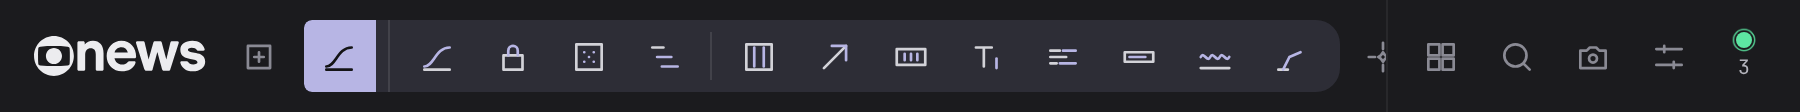
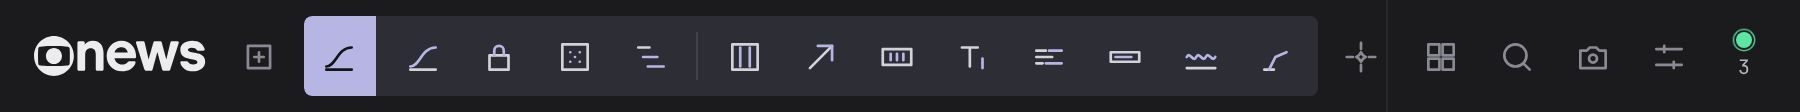
Panel: network offline shown as a red dot on the selection chip (message in its tooltip), no popup while the host loads; horizontal bar: one or two rows of tools, full-height section chip without divider, 4px corners
Claude-Session: https://claude.ai/code/session_01DrYHfURcmfXJEBB7vyaKqW

diff --git a/cep/client/panel/panel.css b/cep/client/panel/panel.css
@@ -6,7 +6,7 @@
 
 /* GNEWS logo (from the script's own shape layer): the globe alone in the narrow bar,
    the full logo when there is room */
-.logo { height: 36px; display: flex; align-items: center; padding: 0 7px; color: var(--tx); border-radius: 4px; }
+.logo { position: relative; height: 36px; display: flex; align-items: center; padding: 0 7px; color: var(--tx); border-radius: 4px; }
 .logo .gl { display: block; height: 22px; width: auto; fill: currentColor; transition: transform .3s var(--spring); }
 .logo .gl-full { display: none; height: 20px; }
 .wide .logo .gl-full, .horiz .logo .gl-full { display: block; }
@@ -58,6 +58,8 @@ footer { flex: none; display: flex; flex-wrap: wrap; gap: 2px; padding: 6px 10px
 .sel.err { background: rgba(255, 107, 107, .16); color: #FFB3B2; }
 .sel .dot { width: 8px; height: 8px; border-radius: 50%; position: relative; background: #55555E; transition: background .3s; }
 .sel .dot.live { background: var(--ok); }
+/* network share offline (message in the tooltip) */
+.sel .dot.off { background: #FF4D4D; }
 .sel .dot.live::after { content: ''; position: absolute; left: -4px; top: -4px; right: -4px; bottom: -4px; border-radius: 50%; border: 1.5px solid var(--ok); animation: ping 1.8s ease-out infinite; }
 .sel svg { width: 16px; height: 16px; fill: none; stroke-width: 2.6; stroke-linecap: round; stroke-linejoin: round; animation: pop .45s cubic-bezier(.3, 1.6, .5, 1); }
 .sel svg path { stroke-dasharray: 24; animation: draw .4s ease backwards; }
@@ -109,10 +111,13 @@ footer { position: relative; }
 .horiz .logo { flex: none; }
 .horiz #sections { flex-direction: row; align-items: center; flex: none; }
 .horiz .sec { flex: none; }
-.horiz .sec.open { display: flex; align-items: center; padding: 0 6px 0 0; border-radius: 4px 12px 12px 4px; animation-name: accInX; }
-/* the open section's own icon: a solid chip in the section color, then a thin divider — the tools follow */
-.horiz .sec.open > .head { flex: none; align-self: stretch; display: flex; align-items: center; padding-right: 6px; margin-right: 4px; border-right: 1px solid var(--line-2); }
-.horiz .sec.open > .head .k { background: var(--sa); color: var(--sa-ink); border-radius: 4px 0 0 4px; }
+.horiz .sec.open { display: flex; align-items: center; padding: 2px 2px 2px 0; border-radius: 4px; animation-name: accInX; }
+/* the open section's own icon: a solid chip in the section color, full height of the block — the tools follow */
+.horiz .sec.open > .head { flex: none; align-self: stretch; display: flex; align-items: center; margin: -2px 4px -2px 0; }
+.horiz .sec.open > .head .k { align-self: stretch; height: auto; background: var(--sa); color: var(--sa-ink); border-radius: 4px 0 0 4px; }
+/* inside the horizontal section: square-ish hovers, groups split by a thin line */
+.horiz .sec.open .t, .horiz .sec.open .sw { border-radius: 4px; }
+.horiz .sec.open .groups { align-self: center; }
 .horiz .sec.open > .head .k:hover { background: var(--sa); filter: brightness(1.08); }
 .horiz .groups { display: flex; align-items: center; }
 .horiz .grid { grid-auto-flow: column; grid-auto-columns: 36px; padding: 0 0 0 2px; }

diff --git a/cep/client/panel/panel.js b/cep/client/panel/panel.js
@@ -40,7 +40,7 @@
 	/* ---------- layout ---------- */
 
 	// short and wide (docked along the top or bottom of the workspace): everything in one row,
-	// the open section unfolds to the right, its tools in a single row
+	// the open section unfolds to the right, its tools in one row (two when the bar is tall enough)
 	function metrics() {
 		var w = window.innerWidth, hgt = window.innerHeight;
 		var horiz = hgt < 260 && w > hgt * 1.4;
@@ -51,10 +51,11 @@
 		app.classList.toggle('list', !horiz && state.labels && w >= 150);
 		app.classList.toggle('reduced', state.reduced);
 		var cols = Math.max(1, Math.floor((w - 20 + 2) / 38));
+		var rows = hgt >= 100 ? 2 : 1;   // horizontal: one or two rows of tools
 		nav.querySelectorAll('.grid').forEach(function (g) {
 			var list = app.classList.contains('list') && !g.classList.contains('swatches');
 			g.style.gridTemplateColumns = horiz ? '' : (list ? '1fr' : 'repeat(' + cols + ', 36px)');
-			g.style.gridTemplateRows = horiz ? '36px' : '';
+			g.style.gridTemplateRows = horiz ? 'repeat(' + rows + ', 36px)' : '';
 		});
 	}
 
@@ -394,9 +395,9 @@
 		selBtn.classList.remove('err');
 		selBtn.textContent = '';
 		var n = st ? st.layers : 0;
-		selBtn.appendChild(h('span.dot' + (st && st.comp && n > 0 ? '.live' : '')));
+		selBtn.appendChild(h('span.dot' + (state.netOff ? '.off' : (st && st.comp && n > 0 ? '.live' : ''))));
 		selBtn.appendChild(h('span', { text: st && st.comp ? String(n) : '–' }));
-		selBtn.title = st && st.comp ? st.comp + ' · ' + n + (n === 1 ? ' layer' : ' layers') : 'nenhuma comp ativa';
+		selBtn.title = (st && st.comp ? st.comp + ' · ' + n + (n === 1 ? ' layer' : ' layers') : 'nenhuma comp ativa') + (state.netOff ? '\n' + state.netOff : '');
 	}
 
 	function pollStatus() {
@@ -481,6 +482,13 @@
 	var logoBtn = document.getElementById('logo');
 	if (window.PGN_LOGO_SVG) { logoBtn.appendChild(PGN_LOGO_SVG('globo')); logoBtn.appendChild(PGN_LOGO_SVG('full')); }
 
+	// network share offline: the selection chip's dot turns red, the message goes in its tooltip
+	// (no popup, no toast)
+	function netDot(msg) {
+		state.netOff = msg || '';
+		renderSel();
+	}
+
 	function intro() {
 		if (!window.PGN_LOGO_DRAW || state.reduced || (window.matchMedia && matchMedia('(prefers-reduced-motion: reduce)').matches)) return;
 		var W = window.innerWidth, H = window.innerHeight, dpr = window.devicePixelRatio || 1;
@@ -519,7 +527,7 @@
 		if (!r || !r.ok) { if (r && r.error) feedback(r.error, false); return; }
 		if (!r.data) return;
 		// network share offline (home office suggested): warn once, without blocking
-		if (r.data.netOffline) feedback(r.data.netOffline, false);
+		netDot(r.data.netOffline);
 		if (r.data.showLabels != null && UI.store('labels') === undefined) {
 			state.labels = !!r.data.showLabels;
 			metrics();

diff --git a/cep/host/index.jsx b/cep/host/index.jsx
@@ -32,34 +32,35 @@ var vStr = 'v3.0';
 	$.global.PGN_SRC = srcFolder.fsName;
 	$.global.PGN_HOST = hostFolder.fsName;
 
-	// classic globals + every library (json, functions, expressions, icons, shape templates)...
-	// globals.js checks the network while loading and may alert ('drive N: is not available'):
-	// keep the message for the panel instead of a modal popup at every start (macOS never sees //server paths)
+	// no modal popup while the host loads (classic network checks, 'drive N: is not available'…):
+	// a popup would freeze After Effects over the panel's opening animation. The message is kept
+	// for the panel, which shows a small red dot on the logo instead (PGN.net.offline / PGN_BOOT_MSG)
 	var bootAlert = $.global.alert;
 
 	try {
 		$.global.alert = function (m) { $.global.PGN_BOOT_MSG = String(m); };
 	} catch (e) { }
 	try {
+		// classic globals + every library (json, functions, expressions, icons, shape templates)...
 		$.evalFile(srcFolder.fsName + '/globals.js');
+
+		// Windows + macOS: network shares, shell commands and Windows-only classic helpers...
+		$.evalFile(hostFolder.fsName + '/platform.jsx');
+
+		// CEP core + tools...
+		$.evalFile(hostFolder.fsName + '/core.jsx');
+
+		var toolFiles = new Folder(hostFolder.fsName + '/tools').getFiles('*.jsx');
+
+		for (var t = 0; t < toolFiles.length; t++) {
+			try {
+				$.evalFile(toolFiles[t]);
+			} catch (err) {
+				$.writeln('PGN: failed to load ' + toolFiles[t].name + ' \u2192 ' + err.toString() + ' (line ' + err.line + ')');
+			}
+		}
 	} finally {
 		try { $.global.alert = bootAlert; } catch (e) { }
-	}
-
-	// Windows + macOS: network shares, shell commands and Windows-only classic helpers...
-	$.evalFile(hostFolder.fsName + '/platform.jsx');
-
-	// CEP core + tools...
-	$.evalFile(hostFolder.fsName + '/core.jsx');
-
-	var toolFiles = new Folder(hostFolder.fsName + '/tools').getFiles('*.jsx');
-
-	for (var t = 0; t < toolFiles.length; t++) {
-		try {
-			$.evalFile(toolFiles[t]);
-		} catch (err) {
-			$.writeln('PGN: failed to load ' + toolFiles[t].name + ' → ' + err.toString() + ' (line ' + err.line + ')');
-		}
 	}
 	PGN.ready = true;
 })();

diff --git a/cep/host/tools/windows.jsx b/cep/host/tools/windows.jsx
@@ -642,7 +642,7 @@ PGN.register('prefs.get', function (args) {
 	data.fontsPath = new Folder(fontsPath).fsName;
 	data.netAccess = netAccess() ? true : false;
 	data.os = appOs;
-	data.netOffline = PGN.net.offline || '';
+	data.netOffline = PGN.net.offline || $.global.PGN_BOOT_MSG || '';
 
 	return { msg: '', data: data };
 });
